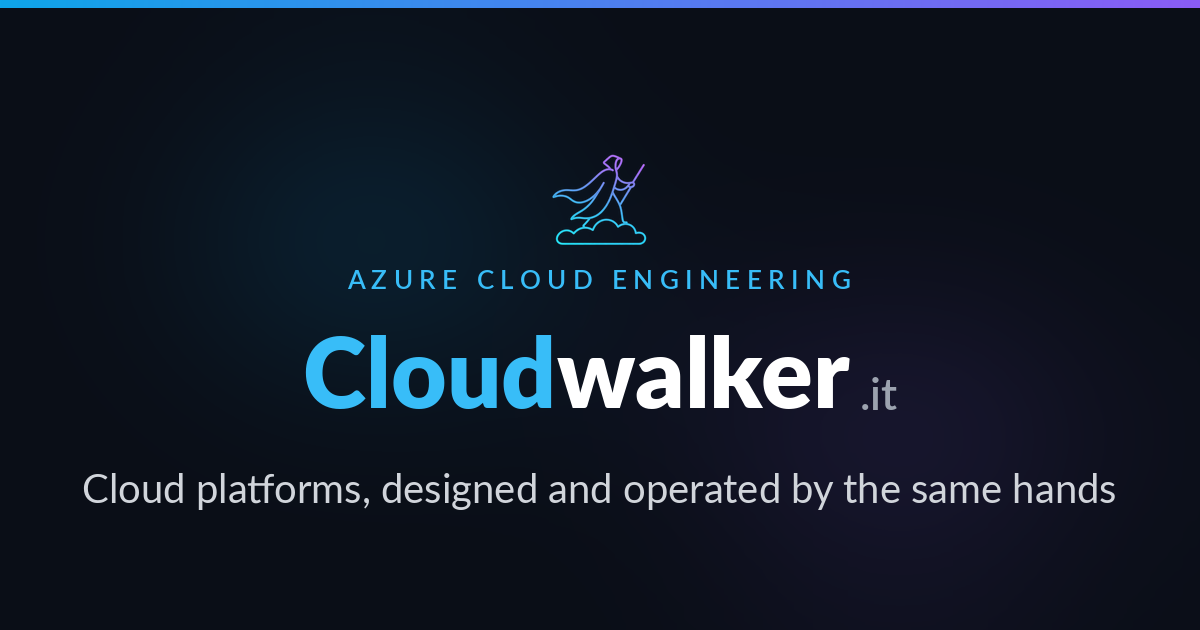
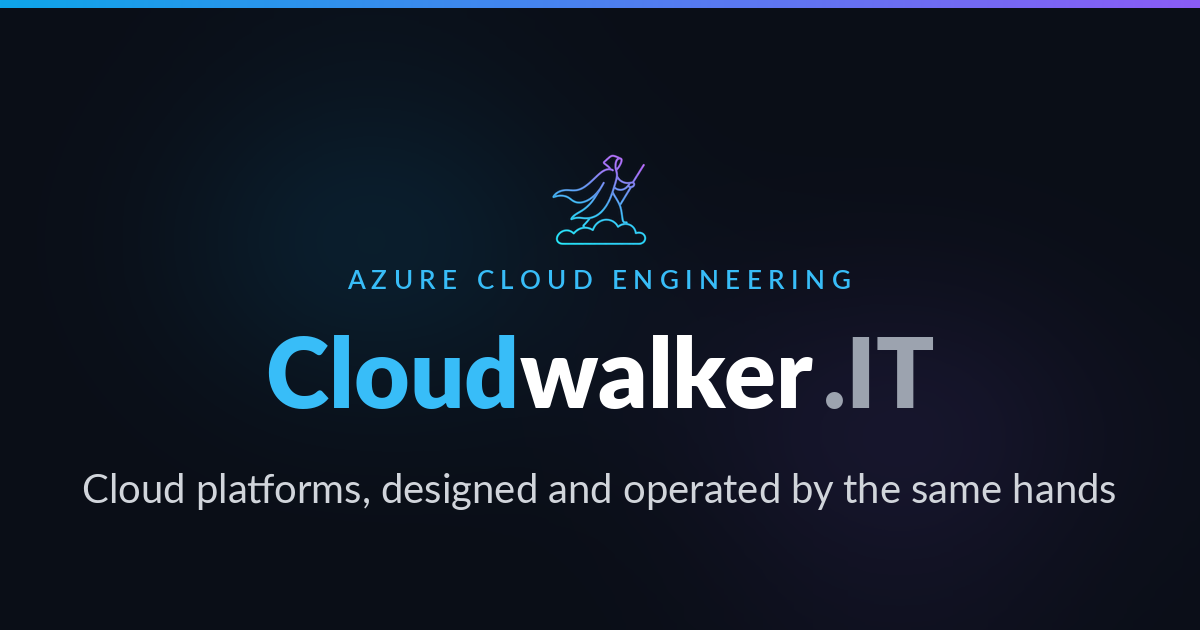
brand: .IT at full wordmark size in header, footer, og image

Changed region(s): [[0.2158, 0.5127, 0.7708, 0.6635]]

diff --git a/src/components/Footer.tsx b/src/components/Footer.tsx
@@ -12,7 +12,7 @@ export default function Footer() {
               <span>
                 <span className="text-cloud-400">Cloud</span>
                 <span className="text-white">walker</span>
-                <span className="text-gray-400 text-sm">.IT</span>
+                <span className="text-gray-400">.IT</span>
               </span>
             </Link>
             <p className="mt-3 text-sm text-gray-400">

diff --git a/src/components/Header.tsx b/src/components/Header.tsx
@@ -29,7 +29,7 @@ export default function Header() {
           <span>
             <span className="text-cloud-400">Cloud</span>
             <span className="text-white">walker</span>
-            <span className="text-gray-400 text-sm font-medium">.IT</span>
+            <span className="text-gray-400">.IT</span>
           </span>
         </Link>
 
